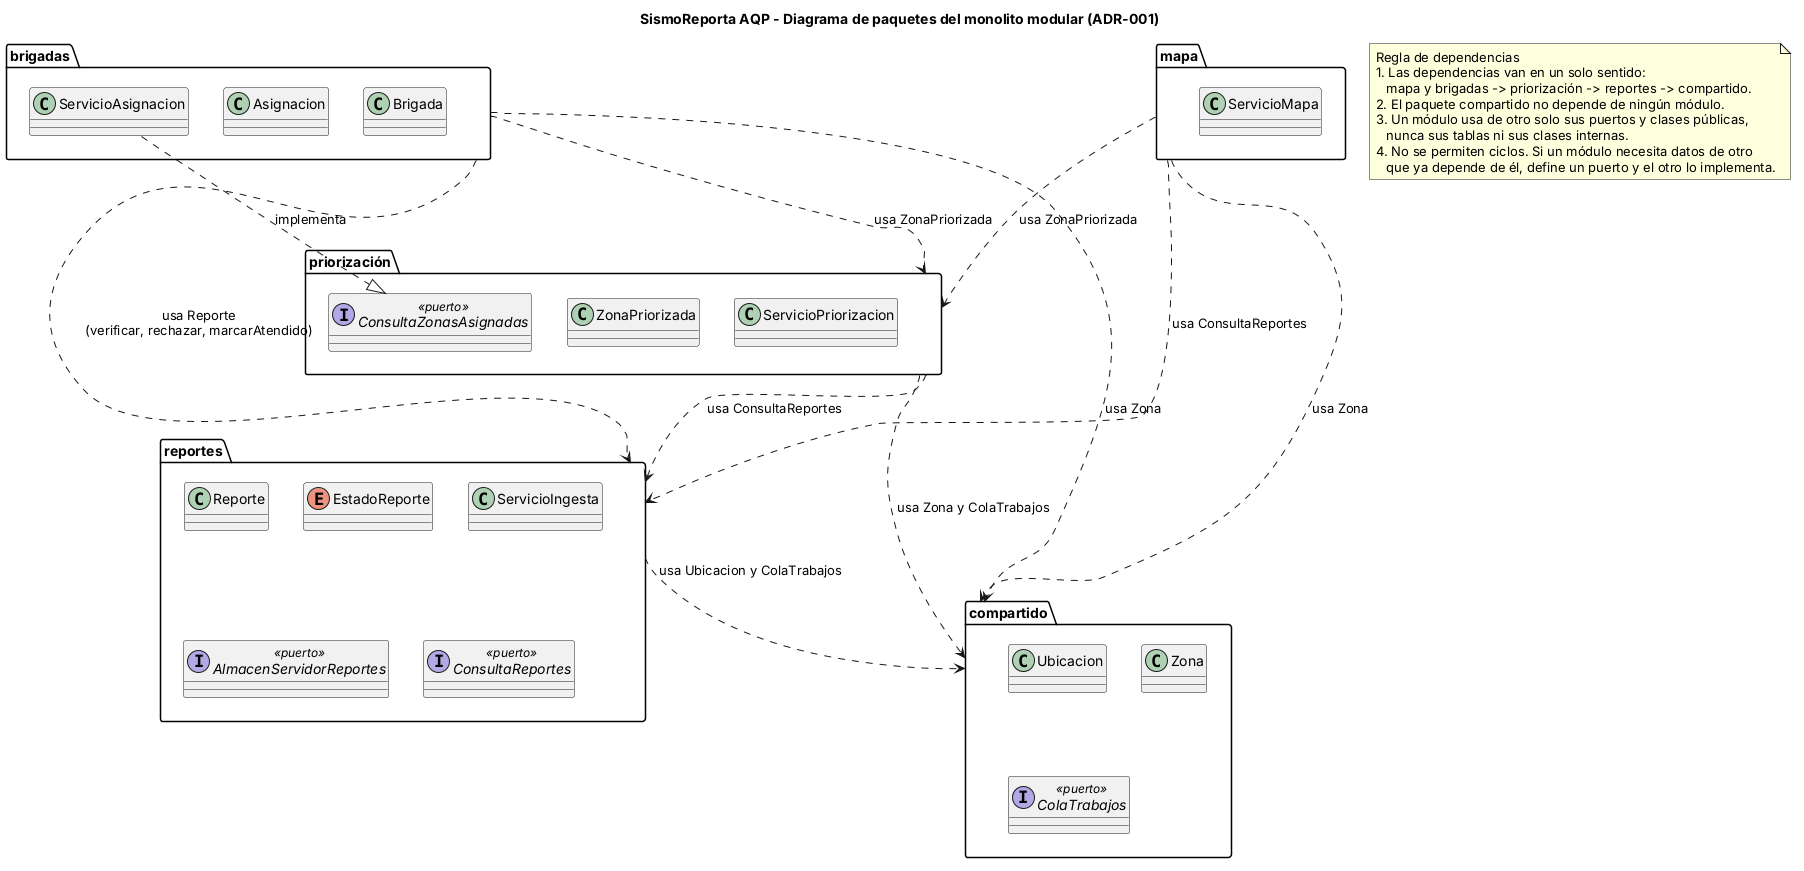
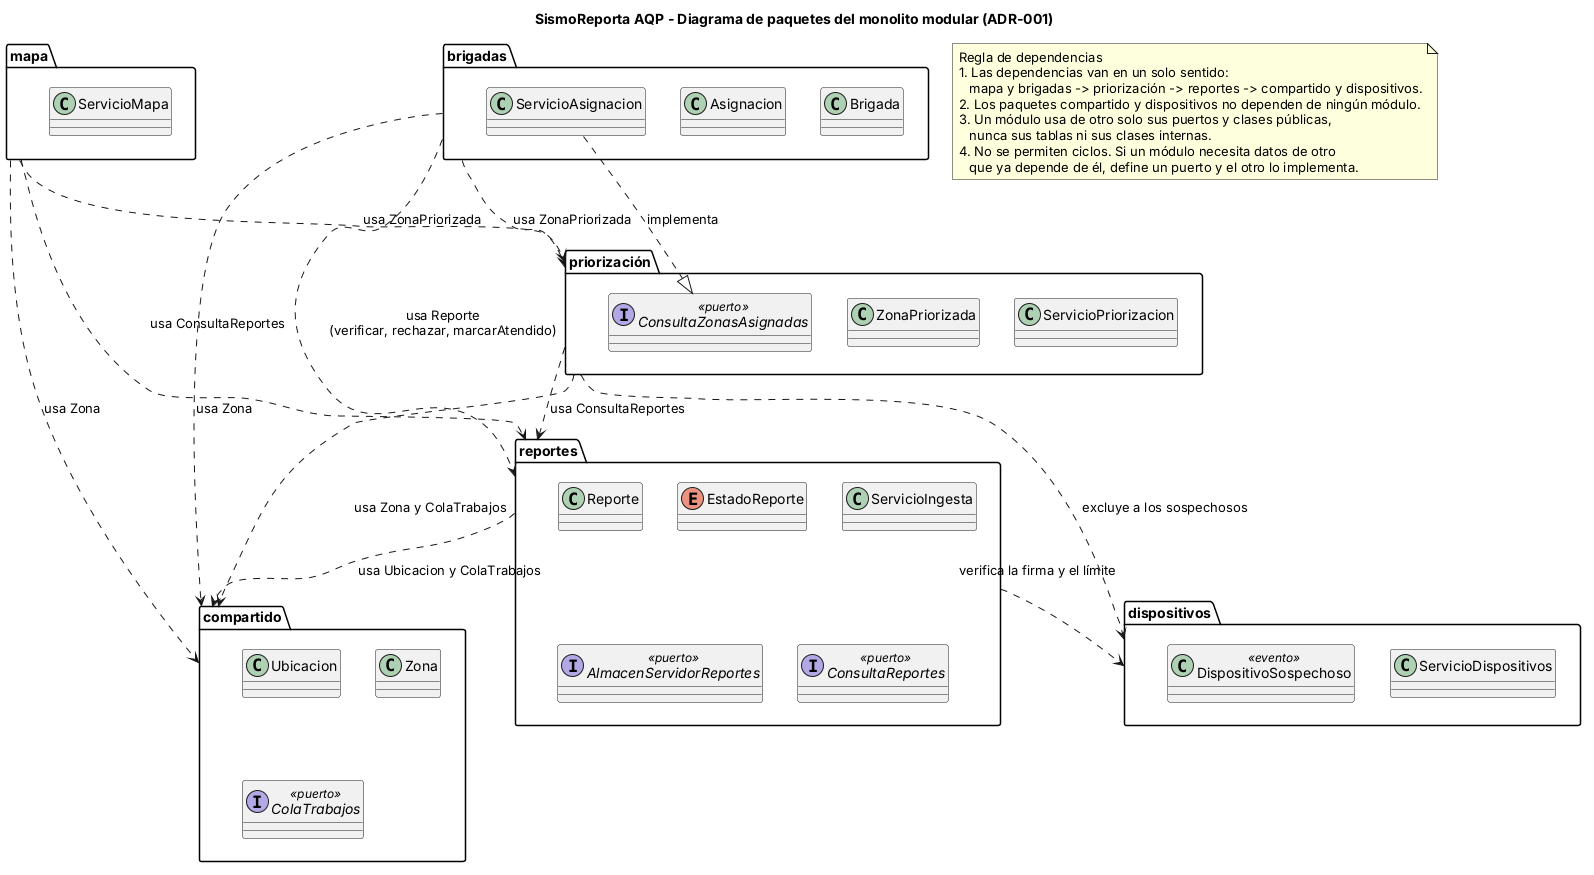
Lab 08: correcciones tras la revisión del informe
- README: insignia del workflow, tabla de fitness functions, evaluación cruzada (no
  realizada: trabajo individual) y etiqueta; el diagrama de contexto en Mermaid se
  actualiza con la exportación actual.
- docs/architecture/fitness.md: contratos, salida de la violación de prueba, fitness
  functions de calidad, mutaciones y limitaciones.
- paquetes.puml: módulo dispositivos de ADR-008 (verificar_c4.py daba 2 fallas).
- atam-lite.md: sección de revisión (R-15 mitigado, E5.3 y E5.4 corregidos).
- bitacora-ia.md: interacción 14.

Claude-Session: https://claude.ai/code/session_01HNWd4fweM4WbS8F6fHszr8

diff --git a/README.md b/README.md
@@ -160,21 +160,21 @@ graph LR
   subgraph diagram ["SismoReporta AQP - Diagrama de contexto (nivel 1)"]
     style diagram fill:#ffffff,stroke:#ffffff
 
-    1["<div style='font-weight: bold'>Ciudadano</div><div style='font-size: 70%; margin-top: 0px'>[Person]</div><div style='font-size: 80%; margin-top:10px'>Reporta daños con foto y<br />ubicación tras un sismo.</div>"]
+    1["<div style='font-weight: bold'>Ciudadano</div><div style='font-size: 70%; margin-top: 0px'>[Person]</div><div style='font-size: 80%; margin-top:10px'>Reporta daños con foto y<br />ubicación tras un sismo.<br />Fuente de [QA-D1] y [QA-S1].</div>"]
     style 1 fill:#08427b,stroke:#052e56,color:#ffffff
-    15["<div style='font-weight: bold'>Servicio de teselas de mapa</div><div style='font-size: 70%; margin-top: 0px'>[Software System]</div><div style='font-size: 80%; margin-top:10px'>Mapa base: OpenStreetMap o un<br />proveedor de teselas.</div>"]
-    style 15 fill:#999999,stroke:#6b6b6b,color:#ffffff
-    2["<div style='font-weight: bold'>Brigadista</div><div style='font-size: 70%; margin-top: 0px'>[Person]</div><div style='font-size: 80%; margin-top:10px'>Atiende las zonas asignadas y<br />actualiza su estado.</div>"]
+    16["<div style='font-weight: bold'>Servicio de teselas de mapa</div><div style='font-size: 70%; margin-top: 0px'>[Software System]</div><div style='font-size: 80%; margin-top:10px'>Mapa base: OpenStreetMap o un<br />proveedor de teselas.<br />Externo: queda fuera de la<br />medida de [QA-R2].</div>"]
+    style 16 fill:#999999,stroke:#6b6b6b,color:#ffffff
+    2["<div style='font-weight: bold'>Brigadista</div><div style='font-size: 70%; margin-top: 0px'>[Person]</div><div style='font-size: 80%; margin-top:10px'>Atiende las zonas asignadas y<br />actualiza su estado. No es<br />fuente de ningún escenario<br />del árbol de utilidad.</div>"]
     style 2 fill:#08427b,stroke:#052e56,color:#ffffff
-    3["<div style='font-weight: bold'>Coordinador</div><div style='font-size: 70%; margin-top: 0px'>[Person]</div><div style='font-size: 80%; margin-top:10px'>Revisa el mapa de daños,<br />prioriza zonas y asigna<br />brigadas.</div>"]
+    3["<div style='font-weight: bold'>Coordinador</div><div style='font-size: 70%; margin-top: 0px'>[Person]</div><div style='font-size: 80%; margin-top:10px'>Revisa el mapa de daños,<br />prioriza zonas y asigna<br />brigadas. Fuente de [QA-R2];<br />revisa los dispositivos<br />sospechosos [QA-S2].</div>"]
     style 3 fill:#08427b,stroke:#052e56,color:#ffffff
-    4["<div style='font-weight: bold'>SismoReporta AQP</div><div style='font-size: 70%; margin-top: 0px'>[Software System]</div><div style='font-size: 80%; margin-top:10px'>Recibe reportes de daños,<br />prioriza zonas y asigna<br />brigadas.</div>"]
+    4["<div style='font-weight: bold'>SismoReporta AQP</div><div style='font-size: 70%; margin-top: 0px'>[Software System]</div><div style='font-size: 80%; margin-top:10px'>Recibe reportes de daños,<br />prioriza zonas y asigna<br />brigadas. [QA-D1] [QA-R2]<br />[QA-S1] [QA-S2]</div>"]
     style 4 fill:#1168bd,stroke:#0b4884,color:#ffffff
 
     1-. "<div>Envía reportes de daños con<br />foto y ubicación</div><div style='font-size: 70%'>[HTTPS]</div>" .->4
     2-. "<div>Consulta su asignación y<br />marca su estado</div><div style='font-size: 70%'>[HTTPS]</div>" .->4
     3-. "<div>Revisa el mapa y asigna<br />brigadas</div><div style='font-size: 70%'>[HTTPS]</div>" .->4
-    4-. "<div>Obtiene el mapa base</div><div style='font-size: 70%'>[HTTPS/PNG]</div>" .->15
+    4-. "<div>Obtiene el mapa base</div><div style='font-size: 70%'>[HTTPS/PNG]</div>" .->16
 
   end
 ```
@@ -234,6 +234,8 @@ Medidas con radon (`radon cc -s -a` y `radon raw -s`) sobre el código actual, s
 
 ## Diseño de la arquitectura (Lab 08)
 
+[![fitness](https://github.com/DavidOliva06/cs-2026b-lab04-grupo06/actions/workflows/fitness.yml/badge.svg)](https://github.com/DavidOliva06/cs-2026b-lab04-grupo06/actions/workflows/fitness.yml)
+
 Escenario de crecimiento: simulacro nacional, con 20 000 reportes en 1 hora y la red móvil congestionada. El atributo crítico es la disponibilidad.
 
 ### Árbol de utilidad
@@ -250,7 +252,26 @@ Fuente: [arbol.dot](docs/architecture/utilidad/arbol.dot). Los 13 escenarios can
 | [2](docs/architecture/add/iteracion-2.md) | **R2** (H,H), rendimiento: carga del mapa p95 ≤ 3 s, filtro p95 ≤ 1 s y retraso ≤ 60 s, con 30 coordinadores | Aumentar la eficiencia: API del mapa agregada por zona y comprimida con gzip ([ADR-007](docs/architecture/adr/007-api-del-mapa-agregada-por-zona.md)) | Prototipo de medición [prototipo_r2.py](fitness/prototipo_r2.py): carga del mapa p95 de 13,46 s a 1,00 s; respuesta de 826 KB a 28 KB | **Sí** |
 | [3](docs/architecture/add/iteracion-3.md) | **S2** (H,M), seguridad: 1 000 reportes falsos en 5 min desde un dispositivo | Identificar actores, y detectar y reaccionar: límite y un voto por dispositivo ([ADR-008](docs/architecture/adr/008-identificador-de-dispositivo.md)) | Simulación por conteo [simulacion_s2.py](fitness/simulacion_s2.py), más una comparación de alternativas para el código por SMS: reportes falsos aceptados de 1 000 a 10, zonas alteradas de 5 a 0 y 100 % de legítimos aceptados | **Sí**, salvo un ataque Sybil, aceptado como riesgo residual |
 
-Los riesgos, puntos de sensibilidad y puntos de trade-off están en [atam-lite.md](docs/architecture/atam-lite.md). Las reglas estructurales de ADR-001 y ADR-005 se verifican con import-linter ([.importlinter](.importlinter)).
+Los riesgos, puntos de sensibilidad y puntos de trade-off están en [atam-lite.md](docs/architecture/atam-lite.md), con la [matriz de probabilidad e impacto](docs/architecture/riesgos/matriz-riesgos.svg).
+
+### Fitness functions
+
+El workflow [fitness.yml](.github/workflows/fitness.yml) las ejecuta en cada Pull Request. Detalle, salida de la violación de prueba y mutaciones en [fitness.md](docs/architecture/fitness.md).
+
+| Tipo | Fitness function | Escenario o regla |
+|---|---|---|
+| Estructural | 4 contratos de import-linter en [.importlinter](.importlinter) | ADR-001 (ingesta sin IA, IA aislada) y ADR-005 (capas, servicio sin infraestructura) |
+| De calidad | `test_d1_modo_pico_...` en [test_fitness.py](tests/test_fitness.py) | D1: ≥ 99,5 % guardados ≤ 15 min, con 1 núcleo y una caída de 10 min |
+| De calidad | `test_r2_mapa_agrupado_...` | R2: carga del mapa p95 ≤ 3 s, filtro p95 ≤ 1 s, retraso ≤ 60 s |
+| De calidad | `test_s2_limite_y_voto_...` | S2: ≤ 10 reportes aceptados por dispositivo y 0 zonas alteradas |
+| De calidad | `test_ingesta_no_pierde_ni_duplica_...` | 0 reportes perdidos o duplicados con respuestas perdidas |
+
+La violación de prueba está en la rama `prueba-violacion-fitness` (commits `3fd719e` y `117b86b`): rompe 2 de los 4 contratos y se revirtió.
+
+### Evaluación cruzada y entrega
+
+- **ATAM-lite cruzado (E3):** no se realizó; el laboratorio se desarrolló de forma individual y no hay issue enviado ni recibido. [atam-lite.md](docs/architecture/atam-lite.md) registra solo hallazgos propios.
+- **Etiqueta:** `v0.8-arquitectura`.
 
 ### ADR del Lab 08
 

diff --git a/docs/architecture/fitness.md b/docs/architecture/fitness.md
@@ -1,0 +1,82 @@
+# Fitness functions (Lab 08, E5)
+
+Se ejecutan en cada Pull Request con [.github/workflows/fitness.yml](../../.github/workflows/fitness.yml): primero `lint-imports` (estructurales) y después `pytest` (de calidad y el resto de la suite).
+
+```bash
+# desde la raíz del repositorio
+PYTHONPATH=src:src/modulo lint-imports
+python -m pytest -v
+```
+
+## 1. Estructurales (E5.1): contratos de import-linter
+
+Archivo: [.importlinter](../../.importlinter).
+
+| Contrato | Regla | ADR | Degradación que detecta |
+|---|---|---|---|
+| `adr001-ingesta-sin-ia` | La ingesta (entrada, servicio, fábrica, adaptadores, decoradores, puertos, modelo, estados, eventos y observadores) no importa `modulo.ia` | ADR-001 | Que la ingesta llame al LLM y quede expuesta a su latencia y sus fallas (D1) |
+| `adr001-ia-aislada` | `modulo.ia` no importa ningún módulo del flujo de reportes | ADR-001 | Que el componente de IA deje de ser reemplazable (M3) |
+| `adr005-capas` | entrada > servicio y observadores > fábrica > adaptadores y decoradores > puertos, estados y eventos > modelo | ADR-005 | Dependencias hacia arriba, que vuelven a acoplar el dominio con la infraestructura |
+| `adr005-servicio-sin-infraestructura` | El servicio, el dominio y los puertos de IA no importan `externos`, `modulo.adaptadores` ni `modulo.ia.adaptador_llm` | ADR-005 | Que el servicio vuelva a conocer IndexedDB, HTTP o PostgreSQL (el olor principal del Lab 07) |
+
+Estado en `v0.8-arquitectura`: **4 kept, 0 broken.**
+
+## 2. Prueba de la violación (E5.2)
+
+En la rama `prueba-violacion-fitness` se agregaron dos imports prohibidos (commit `3fd719e`) y después se revirtieron (commit `117b86b`). La rama se fusionó con `--no-ff` para que las dos operaciones queden en el historial.
+
+```diff
+# src/modulo/servicio.py
++from .adaptadores import AdaptadorIndexedDB  # VIOLACIÓN DE PRUEBA: el servicio conoce un adaptador (ADR-005)
+# src/modulo/entrada.py
++from .ia.puerto import ClasificadorDanos  # VIOLACIÓN DE PRUEBA: la ingesta llama a la IA (ADR-001)
+```
+
+Salida de `lint-imports` sobre `3fd719e` (código de salida 1, así que el workflow queda en rojo):
+
+```text
+ADR-001: la ingesta solo valida, guarda y responde; no llama al clasificador de IA BROKEN
+ADR-001: el componente de IA es un módulo con límites propios; no depende del flujo de reportes KEPT
+ADR-005: las dependencias van en un solo sentido (entrada > servicio y observadores > fábrica > adaptadores y decoradores > puertos > modelo) KEPT
+ADR-005: el servicio y el dominio dependen de puertos, no de adaptadores ni de servicios externos BROKEN
+
+Contracts: 2 kept, 2 broken.
+
+modulo.entrada is not allowed to import modulo.ia:
+-   modulo.entrada -> modulo.ia.puerto (l.15)
+
+modulo.servicio is not allowed to import modulo.adaptadores:
+-   modulo.servicio -> modulo.adaptadores (l.21)
+```
+
+El contrato de capas sigue cumplido con esta violación porque `servicio → adaptadores` va hacia abajo; por eso existe el contrato `adr005-servicio-sin-infraestructura`, que sí la detecta. Sobre `117b86b` (revertido): `Contracts: 4 kept, 0 broken.`
+
+## 3. De calidad (E5.3): escenarios convertidos en pruebas
+
+Archivo: [tests/test_fitness.py](../../tests/test_fitness.py). Cada prueba usa el presupuesto de [escenarios.md](utilidad/escenarios.md) y comprueba además que la versión sin la táctica **no** cumple.
+
+| Prueba | Escenario | Presupuesto | Evidencia que ejecuta |
+|---|---|---|---|
+| `test_d1_modo_pico_guarda_99_5_por_ciento_en_15_min_sin_duplicados` | D1 (ADR-006) | ≥ 99,5 % guardados ≤ 15 min; 0 duplicados | `fitness/simulacion_d1.py`, peor caso: 1 núcleo y caída de 10 min (2 réplicas) |
+| `test_d1_sin_modo_pico_no_cumple` | D1 | — | La misma simulación sin T2 |
+| `test_r2_mapa_agrupado_por_zona_cumple_el_presupuesto_de_p95` | R2 (ADR-007) | Carga p95 ≤ 3 s; filtro p95 ≤ 1 s; retraso ≤ 60 s | `fitness/prototipo_r2.py`: consultas reales sobre 20 000 reportes, medidas en el runner |
+| `test_r2_listado_de_reportes_no_cumple` | R2 | — | El mismo prototipo con el listado |
+| `test_s2_limite_y_voto_por_dispositivo_cumplen_el_escenario` | S2 (ADR-008) | ≤ 10 aceptados por dispositivo; 0 zonas alteradas; ≥ 99,5 % legítimos; aviso ≤ 300 s | `fitness/simulacion_s2.py` (3 réplicas) |
+| `test_s2_sin_control_o_con_limite_por_ip_no_cumple` (2) | S2 | — | La misma simulación con T10 y sin control |
+| `test_ingesta_no_pierde_ni_duplica_reportes_con_respuestas_perdidas` | 0 operaciones perdidas (D1, criterio 3 de HU-01) | 50 de 50 reportes enviados y 50 filas en el servidor | Código real de `src/modulo/entrada.py` con señal intermitente y 30 % de respuestas perdidas |
+
+Resultado: 8 pasan en ≈ 5 s. La suite completa: 99 ejecuciones.
+
+### Mutaciones: cada fitness function de calidad falla si se quita su táctica
+
+| Mutación en una copia | Pruebas de `test_fitness.py` que fallan |
+|---|---|
+| Quitar `ON CONFLICT (id) DO NOTHING` en `AdaptadorPostgres` | 1 (`test_ingesta_no_pierde_ni_duplica_...`) |
+| Quitar el modo pico (`DECISION = "Antes"`) | 1 (`test_d1_modo_pico_...`) |
+| Volver al listado de reportes en el mapa | 1 (`test_r2_mapa_agrupado_...`) |
+| Límite por dispositivo de 50 en lugar de 10 | 1 (`test_s2_limite_y_voto_...`) |
+
+## 4. Limitaciones
+
+- D1 y S2 prueban **modelos** de la arquitectura, no el sistema desplegado: fallan si alguien cambia la táctica o los supuestos del modelo, no si el servidor real se degrada. La prueba de carga real sigue planificada (riesgo R-02 de [atam-lite.md](atam-lite.md)).
+- R2 mide tiempos en el runner de GitHub con SQLite: el presupuesto tiene margen (≈ 1 s frente a 3 s), pero un runner muy lento podría dar un falso negativo.

diff --git a/docs/architecture/atam-lite.md b/docs/architecture/atam-lite.md
@@ -9,7 +9,7 @@
 | Origen de los hallazgos | Cantidad |
 |---|---|
 | Propios: iteraciones de ADD, E5 (fitness functions) y E6 (ADR y C4) | 15 riesgos, 7 puntos de sensibilidad, 5 puntos de trade-off y 6 no riesgos |
-| Recibidos de otro grupo | **Ninguno.** El equipo no realizó E3 (revisión cruzada), así que no hay hallazgos externos que registrar |
+| Recibidos de otro grupo | **Ninguno.** E3 (ATAM-lite cruzado) no se realizó: el laboratorio se desarrolló de forma individual, sin otro grupo asignado, así que no hubo issue enviado ni recibido |
 
 ## 2. Riesgos
 
@@ -81,3 +81,14 @@ Escala: Baja = 1, Media = 2 y Alta = 3. **Zona crítica: probabilidad × impacto
 | NR-4 | La carga del mapa no depende del volumen de reportes | 40 000 reportes: 1,01 s con T5 (iteración 2) |
 | NR-5 | El aviso de un dispositivo atacante llega a tiempo | 4 s frente al límite de 300 s (iteración 3) |
 | NR-6 | Mantener el estilo de ADR-001 es suficiente para D1, R2 y S2 | Las tres tácticas aceptadas se implementan dentro de los contenedores existentes (workspace.dsl) |
+
+## 7. Revisión del 2026-11-13
+
+| Hallazgo | Estado anterior | Estado actual |
+|---|---|---|
+| R-15: documentación desactualizada tras separar `entrada.py` | Riesgo Medio (3) | **Mitigado:** el README, `clases.puml` (40 clases, 0 diferencias con pyreverse) y `.importlinter` (incluye `observadores.py`) se actualizaron al fusionar las correcciones de los labs 05 a 07. |
+| `paquetes.puml` no tenía el módulo `dispositivos` de ADR-008, aunque `workspace.dsl` sí | No detectado | **Corregido:** `verificar_c4.py` daba 2 fallas; se agregó el paquete con sus 2 dependencias y ahora da 0. |
+| E5.3 y E5.4: `tests/test_fitness.py` y `.github/workflows/fitness.yml` estaban vacíos | No detectado | **Corregido:** 8 fitness functions de calidad (D1, R2, S2 y 0 operaciones perdidas) y el workflow en cada Pull Request ([fitness.md](fitness.md)). |
+| NR-2: reglas estructurales vigiladas | Solo con una mutación local | Ahora también en CI, con la violación de prueba documentada en la rama `prueba-violacion-fitness`. |
+| R-02: evidencia de modelos, sin prueba de carga real | Mitigación planificada | **Sin cambio:** las fitness functions de D1 y S2 vigilan los modelos, no el sistema desplegado; la de R2 mide consultas reales, pero en SQLite. |
+

diff --git a/docs/architecture/bitacora-ia.md b/docs/architecture/bitacora-ia.md
@@ -395,3 +395,24 @@ Verificación y corrección:
 - No hay hallazgos recibidos: el equipo no realizó E3 (revisión cruzada). La IA no los inventó; atam-lite.md lo indica.
 - Las probabilidades e impactos son una propuesta de la IA a partir de la evidencia de las iteraciones; el equipo debe
   revisarlos.
+
+## 14. Prompt 14 (Lab 08, revisión del 2026-11-13) Revisión de la entrega
+    Prompt:
+    Revisa la entrega del Lab 08 contra la guía y la crítica del informe: E1–E7 sin evidencia en texto, E8 sin
+    evidencia, sin evaluación cruzada y restos del escenario de RutaSIT.
+    Respuesta:
+    .github/workflows/fitness.yml y tests/test_fitness.py estaban vacíos (0 bytes), así que E5.3 y E5.4 no se
+    habían cumplido y el README no tenía insignia; no existía la etiqueta v0.8-arquitectura; paquetes.puml no tenía
+    el módulo dispositivos de ADR-008; y el cuestionario del informe tenía las preguntas del Lab 05.
+Verificación y corrección:
+- Se escribieron 8 fitness functions de calidad y el workflow. Para comprobar que no pasan "porque sí", cada una
+  verifica también que la versión sin la táctica no cumple, y 4 mutaciones (quitar ON CONFLICT, el modo pico, el
+  mapa agregado y el límite de 10) hacen fallar una prueba cada una.
+- La violación estructural se hizo en una rama, como pide la guía, con la salida de lint-imports documentada en
+  fitness.md (2 de 4 contratos rotos) y revertida.
+- La salida de lint-imports mostró que la violación servicio → adaptadores **no** rompe el contrato de capas (va
+  hacia abajo, y las capas lo permiten); la detecta adr005-servicio-sin-infraestructura. Se documentó en fitness.md
+  para que nadie quite ese contrato pensando que el de capas ya lo cubre.
+- El restante "300 a 1 200 buses" solo queda en la interacción 7 de esta bitácora, donde se registra como error de
+  contexto; se quitó del informe.
+
